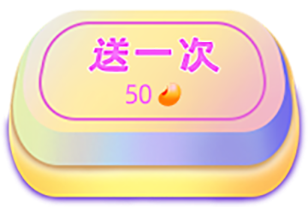
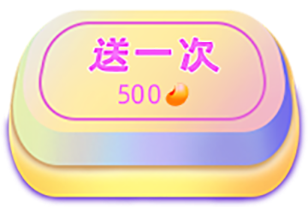
优化

Changed region(s): [[0.3799, 0.4058, 0.6136, 0.5217]]

diff --git a/lib/modules/live/game/wheel/index/wheel_game_view_view.dart b/lib/modules/live/game/wheel/index/wheel_game_view_view.dart
@@ -125,7 +125,11 @@ class _WheelGameViewPageState extends State<WheelGameViewPage>
                 Expanded(
                   child: AppLocalImage(
                       onTap: () {
-                        logic.onSend(1);
+                        // logic.onSend(1);
+                        logic.onSend(
+                            logic.viewType.value == GameSubViewType.primary
+                                ? 10
+                                : 500);
                       },
                       path: logic.viewType.value == GameSubViewType.primary
                           ? AppResource().gameWheelCoinLeft1
@@ -134,7 +138,11 @@ class _WheelGameViewPageState extends State<WheelGameViewPage>
                 Expanded(
                   child: AppLocalImage(
                       onTap: () {
-                        logic.onSend(10);
+                        // logic.onSend(10);
+                        logic.onSend(
+                            logic.viewType.value == GameSubViewType.primary
+                                ? 100
+                                : 5000);
                       },
                       path: logic.viewType.value == GameSubViewType.primary
                           ? AppResource().gameWheelCoinCenter1
@@ -143,7 +151,11 @@ class _WheelGameViewPageState extends State<WheelGameViewPage>
                 Expanded(
                   child: AppLocalImage(
                       onTap: () {
-                        logic.onSend(30);
+                        // 12.14 改动 30次 改成 送百次 1000
+                        logic.onSend(
+                            logic.viewType.value == GameSubViewType.primary
+                                ? 1000
+                                : 15000);
                       },
                       path: logic.viewType.value == GameSubViewType.primary
                           ? AppResource().gameWheelCoinRight1

diff --git a/lib/widgets/gift/common_gift_pop_logic.dart b/lib/widgets/gift/common_gift_pop_logic.dart
@@ -80,6 +80,7 @@ class CommonGiftPopLogic extends AppBaseController {
     CommonGiftCountModel(name: "一心一意", count: 1),
     CommonGiftCountModel(name: "十全十美", count: 10),
     CommonGiftCountModel(name: "一切顺利", count: 30),
+    CommonGiftCountModel(name: "六六大顺", count: 66),
   ];
 
   // 要赠送礼物的数量
@@ -168,10 +169,10 @@ class CommonGiftPopLogic extends AppBaseController {
       sendModel.selUserPosInfo = [];
       for (var userId in selectedUsers) {
         GiftUserPositionInfo userInfo =
-        giftUserList.firstWhere((element) => element.user.id == userId);
+            giftUserList.firstWhere((element) => element.user.id == userId);
         sendModel.selUserPosInfo?.add(userInfo);
       }
-       return sendModel;
+      return sendModel;
     }
     return null;
   }
@@ -193,7 +194,7 @@ class CommonGiftPopLogic extends AppBaseController {
       sendModel.selUserPosInfo = [];
       for (var userId in selectedUsers) {
         GiftUserPositionInfo userInfo =
-        giftUserList.firstWhere((element) => element.user.id == userId);
+            giftUserList.firstWhere((element) => element.user.id == userId);
         sendModel.selUserPosInfo?.add(userInfo);
       }
 

diff --git a/lib/widgets/user/user_info_widget.dart b/lib/widgets/user/user_info_widget.dart
@@ -17,7 +17,8 @@ class UserInfoWidget extends StatelessWidget {
       required this.name,
       this.sex,
       this.userType,
-      this.nameFontSize, this.viewType = UserInfoViewType.dark});
+      this.nameFontSize,
+      this.viewType = UserInfoViewType.dark});
 
   final UserInfoViewType viewType;
 
@@ -92,7 +93,7 @@ class UserInfoWidget extends StatelessWidget {
               fontSize: nameFontSize ?? 14.sp,
               color: viewType == UserInfoViewType.light
                   ? Colors.white
-                  : Colors.black,
+                  : Colors.white,
               fontWeight: FontWeight.w700,
             ),
           ));
@@ -105,7 +106,7 @@ class UserInfoWidget extends StatelessWidget {
             fontSize: nameFontSize ?? 14.sp,
             color: viewType == UserInfoViewType.light
                 ? Colors.white
-                : Colors.black,
+                : Colors.white,
             fontWeight: FontWeight.w700,
           ),
         ),

diff --git a/lib/config/config.dart b/lib/config/config.dart
@@ -18,7 +18,7 @@ import 'env.dart';
 // 1
 class AppConfig {
   //应用名称
-  static const String appName = "知遇派对";
+  static const String appName = "星空party";
 
   // 请求地址
   static final String baseUrl = _getUrl('api');
